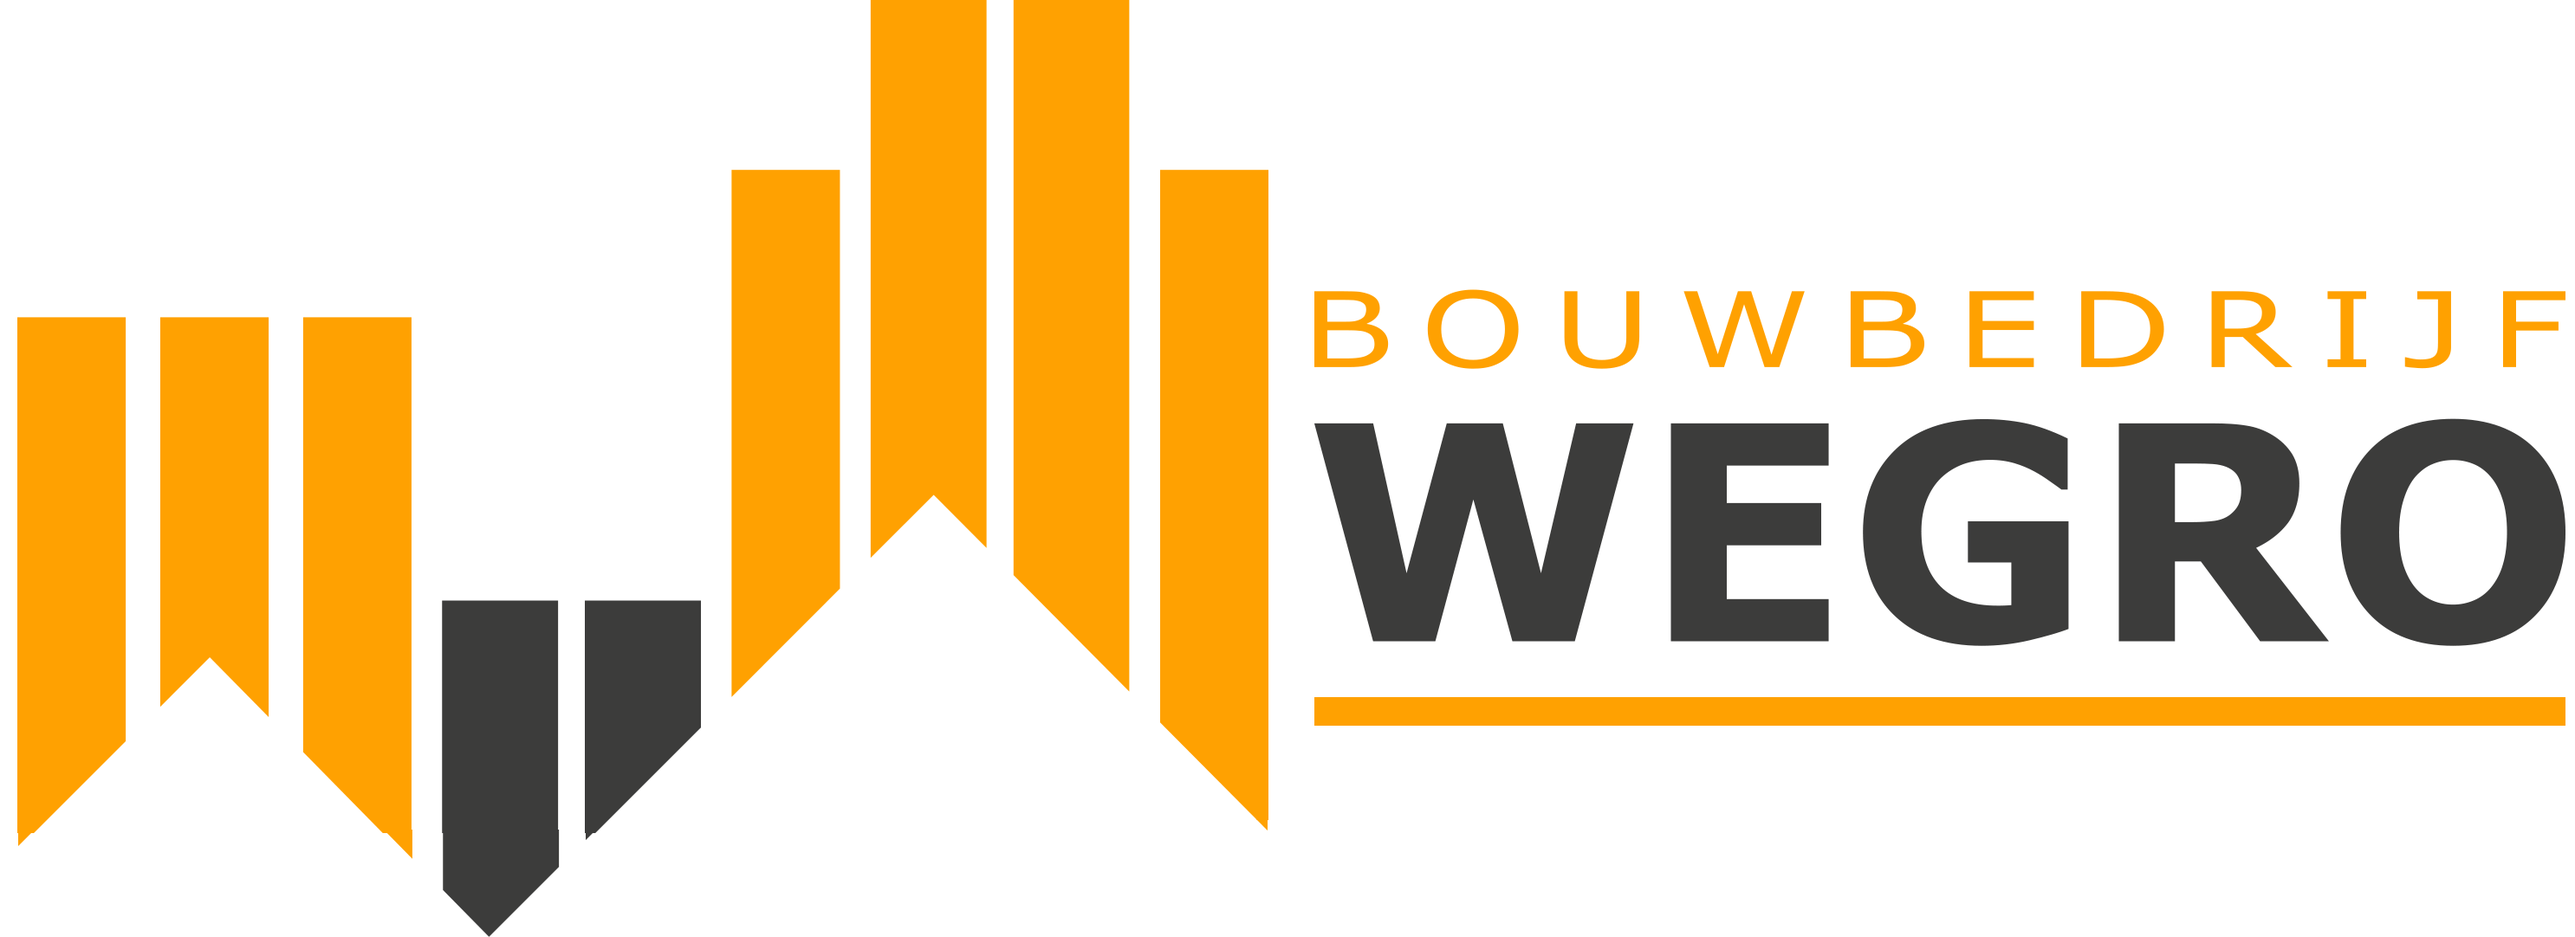
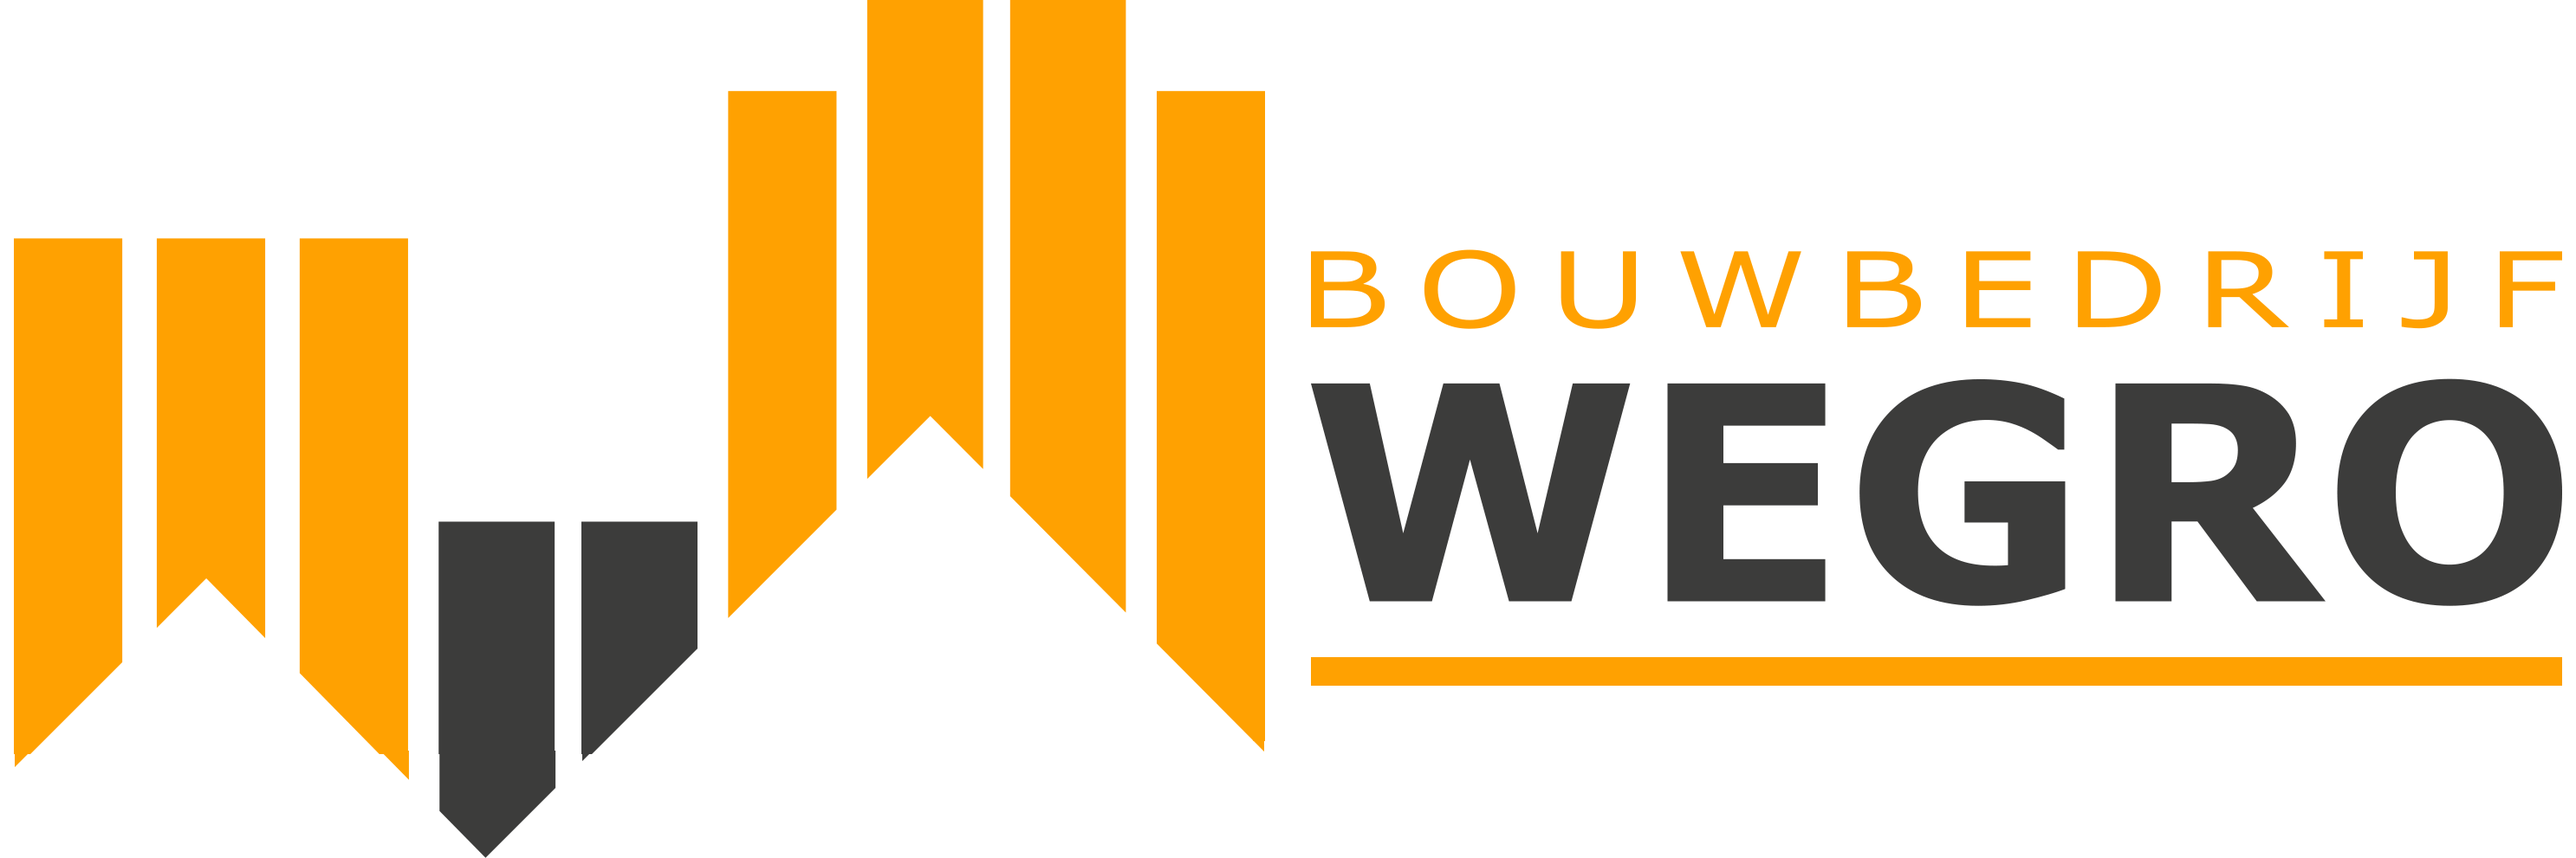
landing page

diff --git a/index.php b/index.php
@@ -27,7 +27,7 @@
                 <div class="col-xs-1">
                     <div class="pull-left">
                         <div class="nav navbar-nav">
-                            <a class="navbar-brand" href="#"><img  src="img/wegrobanner.png" width="100" height="30" class="d-inline-block align-top  alt="BouwBedrijf"></a>
+                            <a class="navbar-brand" href="#"><img  src="img/wegrobanner.png" width="100" height="50" class="d-inline-block align-top  alt="BouwBedrijf"></a>
                         </div>
                     </div>
 
